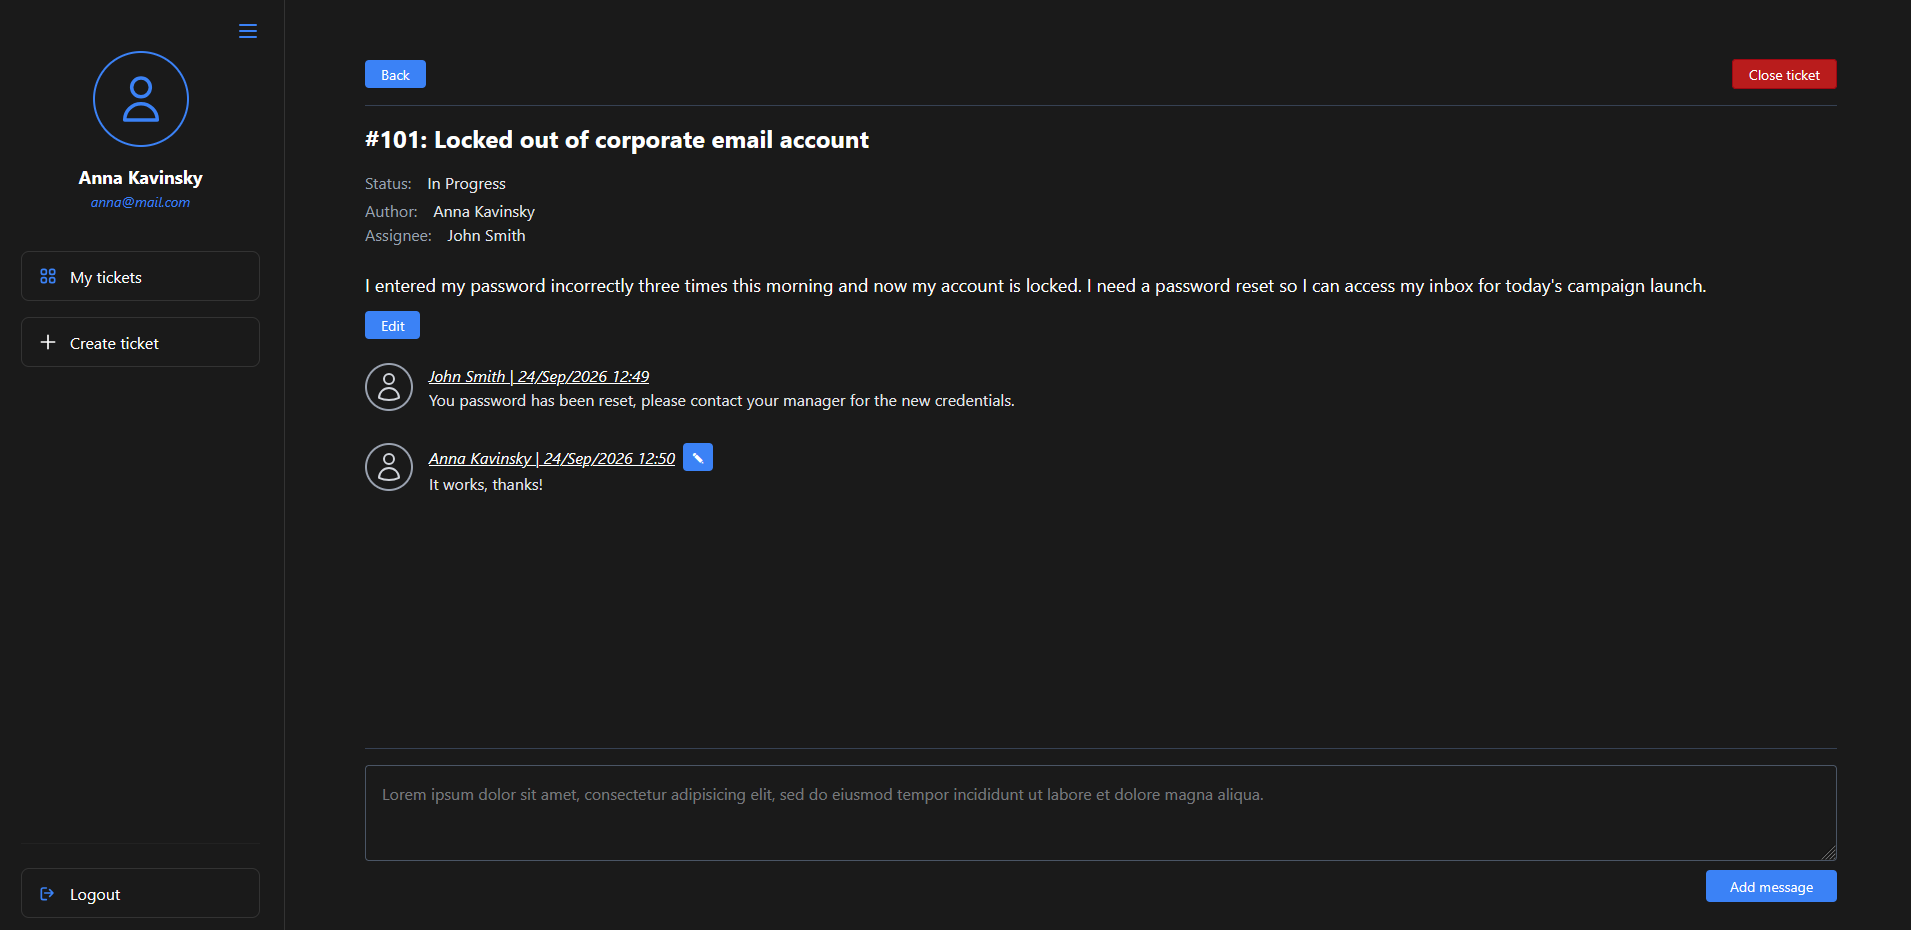
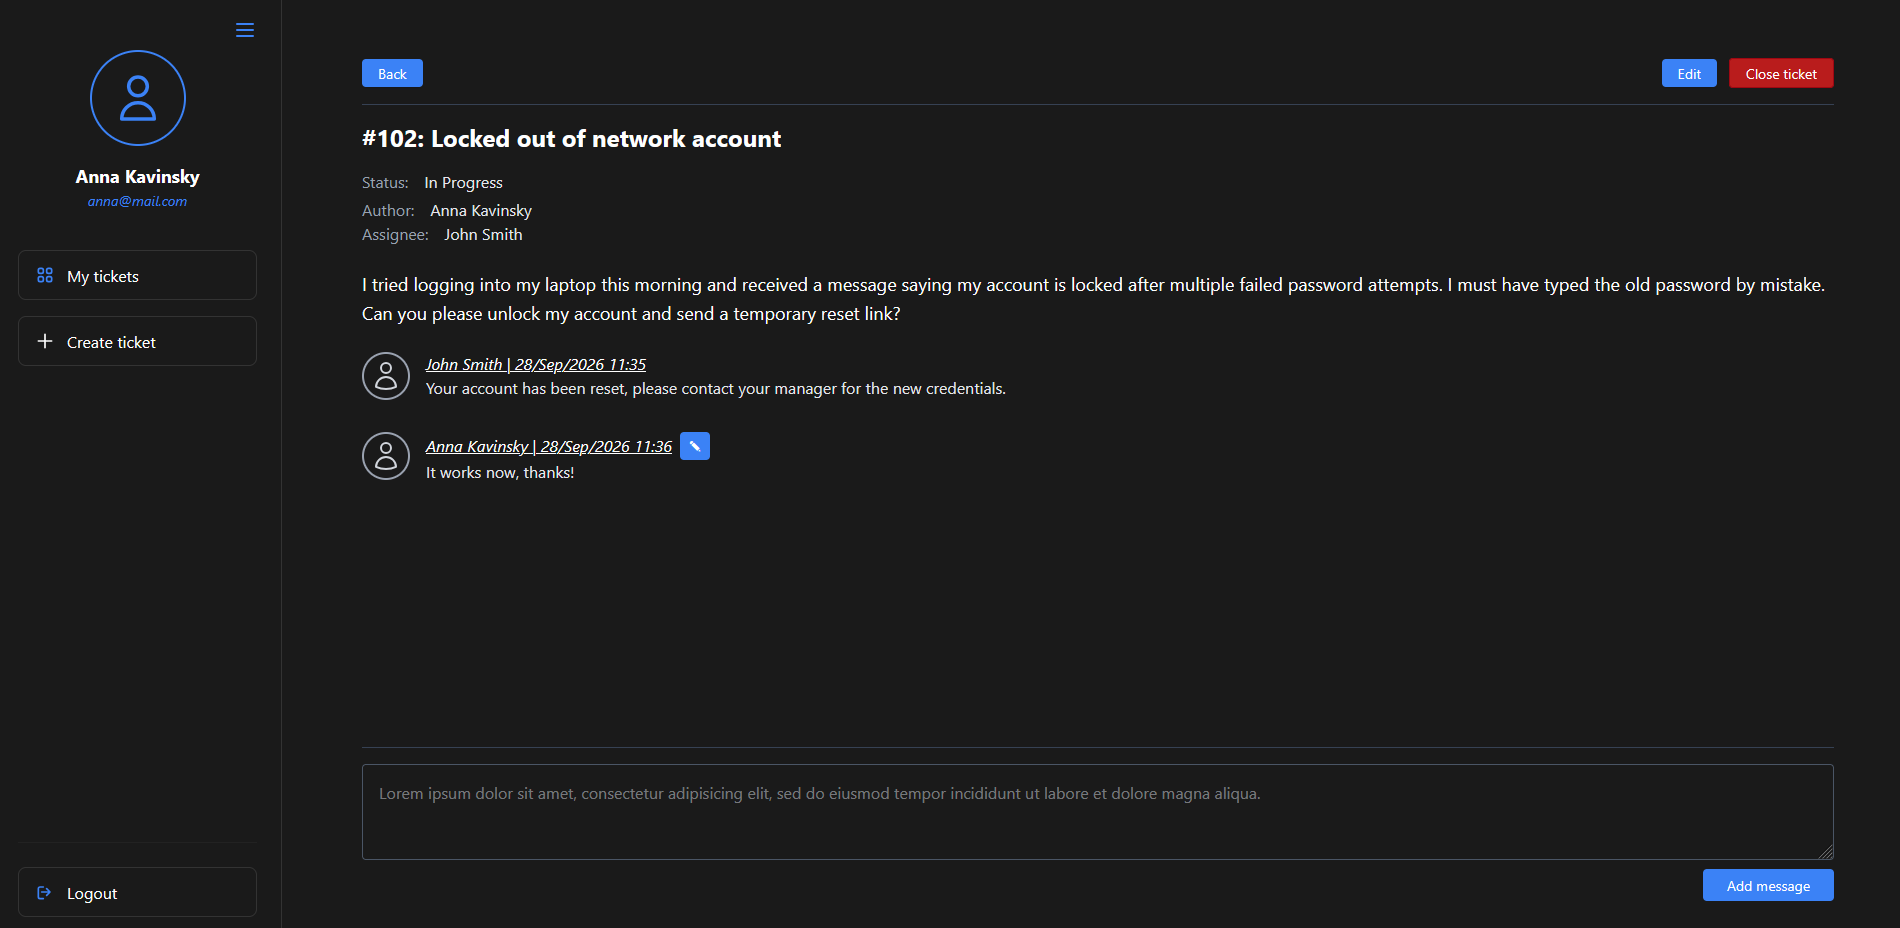
feat: separate edit form for ticket details (page-content)

diff --git a/src/main/resources/templates/ticket/ticket-details.html b/src/main/resources/templates/ticket/ticket-details.html
@@ -33,6 +33,16 @@
                     Back
                 </button>
                 
+                <th:block th:unless="${(ticket.statusCode() == T(com.mygordienko.brennon.ticket.TicketStatus).CLOSED.getCode()) || (!ticket.currentUserRelation().canEdit())}"
+                          sec:authorize="hasAuthority('user:write')">
+                    <button class="bg-[#3b82f6] hover:bg-[#2563eb] text-white font-medium py-1 px-4 rounded shadow-sm transition-colors text-sm"
+                            th:hx-get="@{/tickets/{id}/edit(id=${ticket.id})}"
+                            hx-target="#page-content"
+                            hx-swap="outerHTML">
+                            Edit
+                     </button>
+                </th:block>
+
                 <th:block th:unless="${(ticket.statusCode() == T(com.mygordienko.brennon.ticket.TicketStatus).CLOSED.getCode()) || (!ticket.currentUserRelation().canAssign())}"
                           sec:authorize="hasAuthority('support:write')">
                     <form 
@@ -68,102 +78,31 @@
             <div class="flex-1 overflow-y-auto pr-2 pb-4 space-y-6">
                 
                 <div id="ticket-details-ui-wrapper">
-                    <th:block th:unless="${ticketDetailsEditMode}">
-                        <div th:fragment="ticket-details-display" id="ticket-details-display" th:hx-swap-oob="${isOobSwap} ? 'true' : null">
-                            <!-- Ticket Meta Data -->
-                            <div>
-                                <h1 class="text-2xl font-bold text-white mb-4" th:text="|#${ticket.id()}: ${ticket.subject()}|">#10392: Please help</h1>
-                                <div class="flex items-center gap-4 mb-1">
-                                    <span class="text-gray-400 font-medium">Status:</span>
-                                    <span class="text-gray-200" th:text="${ticket.status()}">open</span>
-                                </div>
-                                <div class="flex items-center gap-4">
-                                    <span class="text-gray-400 font-medium">Author:</span>
-                                    <span class="text-gray-200" th:text="${ticket.author().fullName()}">Peter Parker</span>
-                                </div>
-                                <div class="flex items-center gap-4">
-                                    <span class="text-gray-400 font-medium">Assignee:</span>
-                                    <span class="text-gray-200" th:text="${ticket.assignee().fullName() == null ? '' : ticket.assignee().fullName()}">Peter Parker</span>
-                                </div>
+                    <div th:fragment="ticket-details-display" id="ticket-details-display" th:hx-swap-oob="${isOobSwap} ? 'true' : null">
+                        <!-- Ticket Meta Data -->
+                        <div>
+                            <h1 class="text-2xl font-bold text-white mb-4" th:text="|#${ticket.id()}: ${ticket.subject()}|">#10392: Please help</h1>
+                            <div class="flex items-center gap-4 mb-1">
+                                <span class="text-gray-400 font-medium">Status:</span>
+                                <span class="text-gray-200" th:text="${ticket.status()}">open</span>
                             </div>
-
-                            <!-- Ticket Description -->
-                            <div class="mt-6">
-                                <p class="text-lg font-medium text-white leading-relaxed whitespace-pre-wrap" th:text="${ticket.text()}">
-                                    Lorem ipsum dolor sit amet, consectetur adipisicing elit, sed do eiusmod tempor incididunt ut labore et dolore magna aliqua.
-                                </p>
-                                <button class="mt-3 bg-[#3b82f6] hover:bg-[#2563eb] text-white font-medium py-1 px-4 rounded text-sm transition-colors"
-                                        th:hx-get="@{/tickets/{id}/edit(id=${ticket.id})}"
-                                        hx-target="#ticket-details-ui-wrapper"
-                                        hx-swap="innerHTML"
-                                        th:unless="${(ticket.statusCode() == T(com.mygordienko.brennon.ticket.TicketStatus).CLOSED.getCode()) || !ticket.currentUserRelation().canEdit()}">
-                                    Edit
-                                </button>
+                            <div class="flex items-center gap-4">
+                                <span class="text-gray-400 font-medium">Author:</span>
+                                <span class="text-gray-200" th:text="${ticket.author().fullName()}">Peter Parker</span>
+                            </div>
+                            <div class="flex items-center gap-4">
+                                <span class="text-gray-400 font-medium">Assignee:</span>
+                                <span class="text-gray-200" th:text="${ticket.assignee().fullName() == null ? '' : ticket.assignee().fullName()}">Peter Parker</span>
                             </div>
                         </div>
-                    </th:block>
-                    <th:block th:if="${ticketDetailsEditMode}">
-                        <form class="flex flex-col flex-grow space-y-2"
-                              th:fragment="ticket-details-form" id="ticket-details-form"
-                              th:object="${editDetailsForm}"
-                              th:hx-put="@{/tickets/{id}(id=${ticket.id})}"
-                              hx-target="#ticket-details-ui-wrapper"
-                              hx-swap="innerHTML"
-                              th:hx-swap-oob="${isOobSwap} ? 'true' : null">
-                            <input type="hidden" th:name="${_csrf.parameterName}" th:value="${_csrf.token}"/>
-                            <input type="hidden" th:field="*{version}" class="ticket-version-input"/>
-            
-                            <!-- Subject Input -->
-                            <div class="flex flex-col space-y-2">
-                                <label for="subject" class="text-sm font-medium text-gray-400">Subject</label>
-                                <input 
-                                    type="text" 
-                                    id="subject" 
-                                    th:field="*{subject}" 
-                                    class="w-full rounded-md bg-transparent border border-gray-700 text-white px-4 py-2.5 text-sm focus:outline-none focus:border-blue-500 focus:ring-1 focus:ring-blue-500 transition-colors"
-                                />
-                                <div class="text-red-400 text-sm font-medium" th:if="${#fields.hasErrors('subject')}" th:errors="*{subject}">Validation error</div>
-                            </div>
+                        <!-- Ticket Description -->
+                        <div class="mt-6">
+                            <p class="text-lg font-medium text-white leading-relaxed whitespace-pre-wrap" th:text="${ticket.text()}">
+                                Lorem ipsum dolor sit amet, consectetur adipisicing elit, sed do eiusmod tempor incididunt ut labore et dolore magna aliqua.
+                            </p>
+                        </div>
+                    </div>
 
-                            <!-- Message Textarea -->
-                            <div class="flex flex-col flex-grow">
-                                <label for="message" class="text-sm font-medium text-gray-400">Message</label>
-                                <textarea 
-                                    id="message" 
-                                    th:field="*{text}" 
-                                    class="w-full rounded-md bg-transparent border border-gray-700 text-white px-4 py-2.5 text-sm focus:outline-none focus:border-blue-500 focus:ring-1 focus:ring-blue-500 transition-colors resize-none h-64 md:h-96"
-                                ></textarea>
-                                <div class="text-red-400 text-sm font-medium" th:if="${#fields.hasErrors('text')}" th:errors="*{text}">Validation error</div>
-                            </div>
-
-                            <!-- Footer Actions -->
-                            <div class="flex flex-col md:flex-row justify-between items-start md:items-center gap-4 md:gap-0">
-                                
-                                <!-- Validation Error Message -->
-                                <div th:if="${#fields.hasErrors('*')}" class="text-red-400 text-sm font-medium">
-                                    <div th:if="${#fields.hasErrors('global')}">Validation error</div>
-                                </div>
-                                <!-- Empty placeholder to maintain flex spacing if no error -->
-                                <div th:unless="${#fields.hasErrors('*')}"></div>
-
-                                <!-- Buttons -->
-                                <div class="flex space-x-4">
-                                    <button type="submit" 
-                                            class="bg-[#3b82f6] hover:bg-[#2563eb] text-white font-medium py-1 px-4 rounded text-sm transition-colors">
-                                        Save
-                                    </button>
-                                    <button type="button" 
-                                            class="bg-[#3b82f6] hover:bg-[#2563eb] text-white font-medium py-1 px-4 rounded text-sm transition-colors"
-                                            th:hx-get="@{/tickets/{id}(id=${ticket.id})}"
-                                            hx-target="#page-content"
-                                            hx-swap="outerHTML">
-                                        Cancel
-                                    </button>
-                                </div>
-                            </div>
-
-                        </form>
-                    </th:block>
                 </div>
 
                 <!-- Replies List -->

diff --git a/src/main/resources/templates/ticket/edit-ticket.html b/src/main/resources/templates/ticket/edit-ticket.html
@@ -1,0 +1,83 @@
+<!DOCTYPE html>
+<html xmlns:th="http://www.thymeleaf.org"
+    xmlns:layout="http://www.ultraq.net.nz/thymeleaf/layout"
+    layout:decorate="~{layout}"
+    th:with="activeMenuItem='editticket'">
+<head>
+    <title>Edit ticket</title>
+</head>
+<body>
+ <th:block layout:fragment="content">
+    <main class="flex-1 flex flex-col p-6 md:p-10 overflow-hidden relative" id= "page-content" th:fragment="page-content-block">
+        <th:block th:fragment="edit-details-form">
+            <!-- Page Title -->
+            <h1 class="text-2xl font-bold text-white mb-6">Edit ticket</h1>
+
+            <div id="error-parent"></div>
+            <template th:replace="~{fragments/error-containers :: htmx-request-error-message}"></template>
+            <template th:replace="~{fragments/error-containers :: htmx-timeout-error-message}"></template>
+
+            <!-- Form -->
+            <form class="flex flex-col flex-grow space-y-2"
+                  th:fragment="ticket-details-form" id="ticket-details-form"
+                  th:object="${editDetailsForm}"
+                  th:hx-put="@{/tickets/{id}(id=${ticket.id})}"
+                  hx-target="#page-content"
+                  hx-swap="outerHTML">
+                <input type="hidden" th:name="${_csrf.parameterName}" th:value="${_csrf.token}"/>
+                <input type="hidden" th:field="*{version}" class="ticket-version-input"/>
+
+                <!-- Subject Input -->
+                <div class="flex flex-col space-y-2">
+                    <label for="subject" class="text-sm font-medium text-gray-400">Subject</label>
+                    <input 
+                        type="text" 
+                        id="subject" 
+                        th:field="*{subject}" 
+                        class="w-full rounded-md bg-transparent border border-gray-700 text-white px-4 py-2.5 text-sm focus:outline-none focus:border-blue-500 focus:ring-1 focus:ring-blue-500 transition-colors"
+                    />
+                    <div class="text-red-400 text-sm font-medium" th:if="${#fields.hasErrors('subject')}" th:errors="*{subject}">Validation error</div>
+                </div>
+
+                <!-- Message Textarea -->
+                <div class="flex flex-col flex-grow">
+                    <label for="message" class="text-sm font-medium text-gray-400">Message</label>
+                    <textarea 
+                        id="message" 
+                        th:field="*{text}" 
+                        class="w-full rounded-md bg-transparent border border-gray-700 text-white px-4 py-2.5 text-sm focus:outline-none focus:border-blue-500 focus:ring-1 focus:ring-blue-500 transition-colors resize-none h-64 md:h-96"
+                    ></textarea>
+                    <div class="text-red-400 text-sm font-medium" th:if="${#fields.hasErrors('text')}" th:errors="*{text}">Validation error</div>
+                </div>
+
+                <!-- Footer Actions -->
+                <div class="flex flex-col md:flex-row justify-between items-start md:items-center gap-4 md:gap-0">
+
+                    <!-- Validation Error Message -->
+                    <div th:if="${#fields.hasErrors('*')}" class="text-red-400 text-sm font-medium">
+                        <div th:if="${#fields.hasErrors('global')}">Validation error</div>
+                    </div>
+                    <!-- Empty placeholder to maintain flex spacing if no error -->
+                    <div th:unless="${#fields.hasErrors('*')}"></div>
+
+                    <!-- Buttons -->
+                    <div class="flex space-x-4">
+                        <button type="submit" 
+                                class="bg-[#3b82f6] hover:bg-[#2563eb] text-white font-medium py-1 px-4 rounded text-sm transition-colors">
+                            Save
+                        </button>
+                        <button type="button" 
+                                class="bg-[#3b82f6] hover:bg-[#2563eb] text-white font-medium py-1 px-4 rounded text-sm transition-colors"
+                                th:hx-get="@{/tickets/{id}(id=${ticket.id})}"
+                                hx-target="#page-content"
+                                hx-swap="outerHTML">
+                            Cancel
+                        </button>
+                    </div>
+                </div>
+            </form>
+        </th:block>
+    </main>
+ </th:block>
+</body>
+</html>

diff --git a/src/main/java/com/mygordienko/brennon/ticket/adapter/web/TicketController.java b/src/main/java/com/mygordienko/brennon/ticket/adapter/web/TicketController.java
@@ -187,17 +187,26 @@ public class TicketController {
     }
 
     @GetMapping("/tickets/{id}/edit")
-    public String getTicketDetailsEditFragment(@CookieValue(value = "BRENNON_CLIENT_TIMEZONE", defaultValue = "UTC") String zoneIdStr, Model model, @PathVariable long id) {
+    public String getTicketDetailsEditFragment(
+        @CookieValue(value = "BRENNON_CLIENT_TIMEZONE", defaultValue = "UTC") String zoneIdStr,
+        @RequestHeader(value = "HX-Request", required = false) String hxRequest,
+        Model model, 
+        @PathVariable long id) {
         var zoneId = ZoneId.of(zoneIdStr);
         var ticket = ticketService.getTicket(TicketId.of(id));
 
         var ticketDto = composeDto(ticket, zoneId);
 
         model.addAttribute("ticket", ticketDto);
-        model.addAttribute("ticketDetailsEditMode", true);
         model.addAttribute("editDetailsForm", new TicketEditCommandDto(ticket.getVersion(), ticket.getSubject(), ticket.getText()));
 
-        return "ticket/ticket-details :: ticket-details-form";
+        if (hxRequest != null) {
+            return "ticket/edit-ticket :: page-content-block";
+        } else {
+            // regular request, serve full template
+            return "ticket/edit-ticket";
+        }
+        
     }
 
     @PutMapping("/tickets/{id}")
@@ -214,11 +223,9 @@ public class TicketController {
             var ticket = ticketService.getTicket(ticketId);
             var ticketDto = composeDto(ticket, zoneId);
             model.addAttribute("ticket", ticketDto);
-            model.addAttribute("ticketDetailsEditMode", true);
             model.addAttribute("editDetailsForm", editDetailsForm);
             
-            response.setHeader("HX-Retarget", "#ticket-details-form"); 
-            return "ticket/ticket-details :: ticket-details-form"; 
+            return "ticket/edit-ticket :: page-content-block"; 
         }
 
         ticketService.editTicketDitails(editDetailsForm.toCommand(ticketId));
@@ -226,15 +233,12 @@ public class TicketController {
         var ticket = ticketService.getTicket(ticketId);
         var ticketDto = composeDto(ticket, zoneId);
 
-        var htmxEventHeaderBuilder = new HtmxClientEventTriggerHeaderBuilder();
-
         model.addAttribute("ticket", ticketDto);
-        model.addAttribute("ticketDetailsEditMode", false);
-        
-        htmxEventHeaderBuilder.addVersionUpdatedEvent(ticket.getVersion());
-        response.setHeader("HX-Trigger", htmxEventHeaderBuilder.toJsonString());
+        model.addAttribute("replyform", new TicketReplyCommandDto(ticket.getVersion()));
+        model.addAttribute("closeForm", new TicketCloseCommandDto(ticket.getVersion()));
+        model.addAttribute("assignMeForm", new TicketAssignMeCommandDto(ticket.getVersion()));
 
-        return "ticket/ticket-details :: ticket-details-display";
+        return "ticket/ticket-details :: page-content-block";
     }
 
     @GetMapping("/tickets/create")
@@ -255,7 +259,6 @@ public class TicketController {
 
         return "redirect:/tickets/my";
     }
-
 
     @GetMapping("/tickets/{id}/reply")
     public String getReplyEdit(

diff --git a/src/main/java/com/mygordienko/brennon/core/common/adapter/CommonControllerAdvice.java b/src/main/java/com/mygordienko/brennon/core/common/adapter/CommonControllerAdvice.java
@@ -4,6 +4,8 @@ import java.io.IOException;
 
 import org.slf4j.Logger;
 import org.slf4j.LoggerFactory;
+import org.springframework.core.Ordered;
+import org.springframework.core.annotation.Order;
 import org.springframework.http.HttpStatus;
 import org.springframework.web.bind.annotation.ControllerAdvice;
 import org.springframework.web.bind.annotation.ExceptionHandler;
@@ -21,8 +23,12 @@ import jakarta.servlet.http.HttpServletResponse;
  *   assumes you want an empty successful response that just happens to have a 404 status header.
  * 
  *   When call response.sendError(404), we are bypassing Spring and talking directly to the underlying servlet container.
+ * 
+ * NOTE: {@link Order} is required to make this handler analyzed after all other feature-specific handlers. Setting `basePackages` 
+ *   on advice controller does not give it any priority by itself, {@link Order} is still needed.
  */
-@ControllerAdvice 
+@ControllerAdvice
+@Order(Ordered.LOWEST_PRECEDENCE)
 public class CommonControllerAdvice {
 
     private static final Logger log = LoggerFactory.getLogger(CommonControllerAdvice.class);

diff --git a/src/main/java/com/mygordienko/brennon/ticket/adapter/web/TicketControllerAdvice.java b/src/main/java/com/mygordienko/brennon/ticket/adapter/web/TicketControllerAdvice.java
@@ -3,6 +3,7 @@ package com.mygordienko.brennon.ticket.adapter.web;
 import java.util.Optional;
 
 import org.springframework.context.MessageSource;
+import org.springframework.core.annotation.Order;
 import org.springframework.dao.OptimisticLockingFailureException;
 import org.springframework.http.HttpStatus;
 import org.springframework.http.ProblemDetail;
@@ -28,6 +29,7 @@ import lombok.extern.slf4j.Slf4j;
  *      - JSON for HTMX
  */
 @Slf4j
+@Order(100)
 @ControllerAdvice(basePackages = {"com.mygordienko.brennon.ticket.adapter.web"})
 public class TicketControllerAdvice {
     public TicketControllerAdvice(MessageSource messageSource) {
@@ -92,4 +94,6 @@ public class TicketControllerAdvice {
 
         return new ModelAndView("core/common/400", HttpStatus.CONFLICT);
     }
+
+
 }
